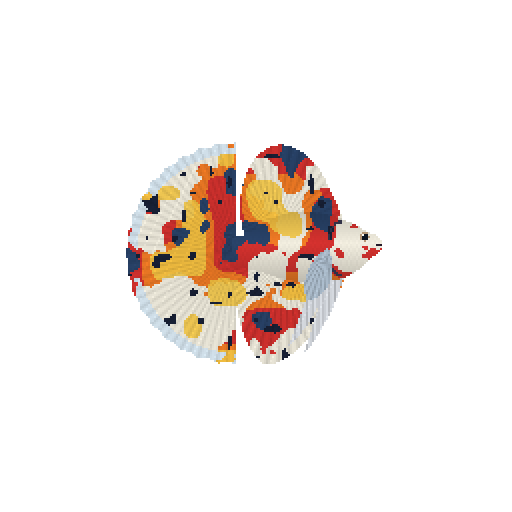
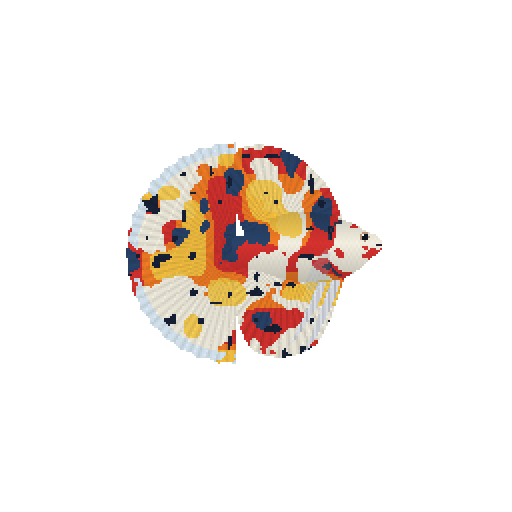
fix: align Halfmoon fin anatomy with the koi-marble reference

Changed region(s): [[0.5, 0.4688, 0.6875, 0.7188], [0.4375, 0.2812, 0.5938, 0.4375], [0.5938, 0.3125, 0.625, 0.3438]]

diff --git a/src/betta/render.rs b/src/betta/render.rs
@@ -30,16 +30,17 @@ fn render_pose(development: &BettaDevelopment, pose: Option<super::BettaPose>) -
     let dorsal = outline(
         [119., 111.],
         &[
-            [[111., 90.], [117., 56.], [135., 45.]],
-            [[150., 34.], [175., 47.], [185., 75.]],
+            [[110., 90.], [102., 56.], [115., 44.]],
+            [[136., 35.], [166., 47.], [185., 75.]],
             [[194., 91.], [195., 101.], [202., 110.]],
         ],
     );
     let anal = outline(
         [111., 130.],
         &[
-            [[110., 157.], [113., 193.], [132., 211.]],
-            [[146., 220.], [179., 191.], [198., 144.]],
+            [[108., 157.], [113., 190.], [126., 202.]],
+            [[143., 211.], [163., 208.], [176., 196.]],
+            [[188., 180.], [191., 159.], [198., 144.]],
             [[177., 131.], [137., 129.], [111., 130.]],
         ],
     );
@@ -54,24 +55,24 @@ fn render_pose(development: &BettaDevelopment, pose: Option<super::BettaPose>) -
         ],
     );
     let ventral = outline(
-        [197., 142.],
+        [195., 142.],
         &[
-            [[194., 160.], [178., 191.], [165., 205.]],
-            [[173., 182.], [179., 158.], [185., 143.]],
+            [[192., 160.], [177., 192.], [165., 205.]],
+            [[174., 183.], [183., 157.], [189., 143.]],
         ],
     );
     let ventral_back = outline(
         [184., 143.],
         &[
-            [[182., 163.], [164., 191.], [153., 199.]],
-            [[162., 176.], [169., 156.], [176., 142.]],
+            [[181., 164.], [162., 190.], [153., 199.]],
+            [[164., 179.], [173., 157.], [179., 143.]],
         ],
     );
     let pectoral = outline(
         [184., 122.],
         &[
-            [[174., 126.], [160., 147.], [168., 163.]],
-            [[184., 161.], [194., 140.], [184., 122.]],
+            [[176., 128.], [164., 143.], [168., 155.]],
+            [[181., 155.], [191., 138.], [184., 122.]],
         ],
     );
     let mut pixels = vec![[0; 4]; (FRAME_WIDTH_PIXELS * FRAME_WIDTH_PIXELS) as usize];
@@ -107,6 +108,7 @@ fn render_pose(development: &BettaDevelopment, pose: Option<super::BettaPose>) -
                 None
             };
             let mut pigment_point = tail_point;
+            let mut pectoral_underlay = None;
             for (shape, part) in [
                 (&dorsal, Region::Dorsal),
                 (&anal, Region::Anal),
@@ -117,6 +119,10 @@ fn render_pose(development: &BettaDevelopment, pose: Option<super::BettaPose>) -
             ] {
                 let sample = fin_sample(point, part, pose);
                 if contains(shape, sample) {
+                    if matches!(part, Region::Pectoral) {
+                        pectoral_underlay = region
+                            .map(|under| super::marble::color(development, pigment_point, under));
+                    }
                     region = Some(part);
                     pigment_point = sample;
                 }
@@ -134,6 +140,16 @@ fn render_pose(development: &BettaDevelopment, pose: Option<super::BettaPose>) -
             }
             if let Some(region) = region {
                 let mut color = super::marble::color(development, pigment_point, region);
+                if matches!(region, Region::Pectoral) {
+                    if let Some(underlay) = pectoral_underlay {
+                        // Simulate a thin translucent membrane in opaque RGB so GIF
+                        // transparency remains binary and body patches show through.
+                        for axis in 0..3 {
+                            color[axis] = ((u16::from(color[axis]) + 3 * u16::from(underlay[axis]))
+                                / 4) as u8;
+                        }
+                    }
+                }
                 // A dark operculum arc and small upturned mouth distinguish the head.
                 let gill = ((px - 194.) / 10.).powi(2) + ((py - 122.) / 21.).powi(2);
                 if matches!(region, Region::Body) && px < 195. && (0.88..1.08).contains(&gill) {

diff --git a/docs/betta.md b/docs/betta.md
@@ -79,6 +79,27 @@ Reproduce the four images and their synthetic snapshot files:
 cargo run --release --locked --example betta-gallery -- target/betta-gallery
 ```
 
+## Reference anatomy check
+
+The user-provided koi-marble photograph was compared directly against the
+rendered portrait on November 25, 2026. The drawing remains an original
+pixel-art interpretation. Red, ivory and blue come from the reference palette;
+gold and orange were added at the user's subsequent request. The marbling is
+personalized from profile data, not a copy of the photograph's patch layout.
+
+The reference review corrected the previously pointed anal fin to a broader,
+round-cornered outline, narrowed the paired ventral filaments, reduced the
+pectoral fin, and simulated its thin membrane by blending its color with the
+underlying pattern. The dorsal outline now flows more naturally toward the
+caudal fan. Binary output alpha is retained for GIF compatibility; the pectoral
+translucency is a color treatment rather than partial output transparency.
+
+The intended single-tail Halfmoon form is checked against the
+[International Betta Congress longfin Halfmoon standard](https://www.ibcbettas.org/wp-content/uploads/2025/06/IBC-2022-Exhibition-Standards-Book-01-Final.pdf):
+a spread semicircular tail and a broad anal outline, with balanced fins. The
+standard guides silhouette and fin placement; the sprite uses simplified
+pixel-art anatomy. The source photograph remains outside the repository.
+
 ## Validation and remaining work
 
 Verified on November 25, 2026, with Rust 1.88.0 on Apple Silicon macOS:
